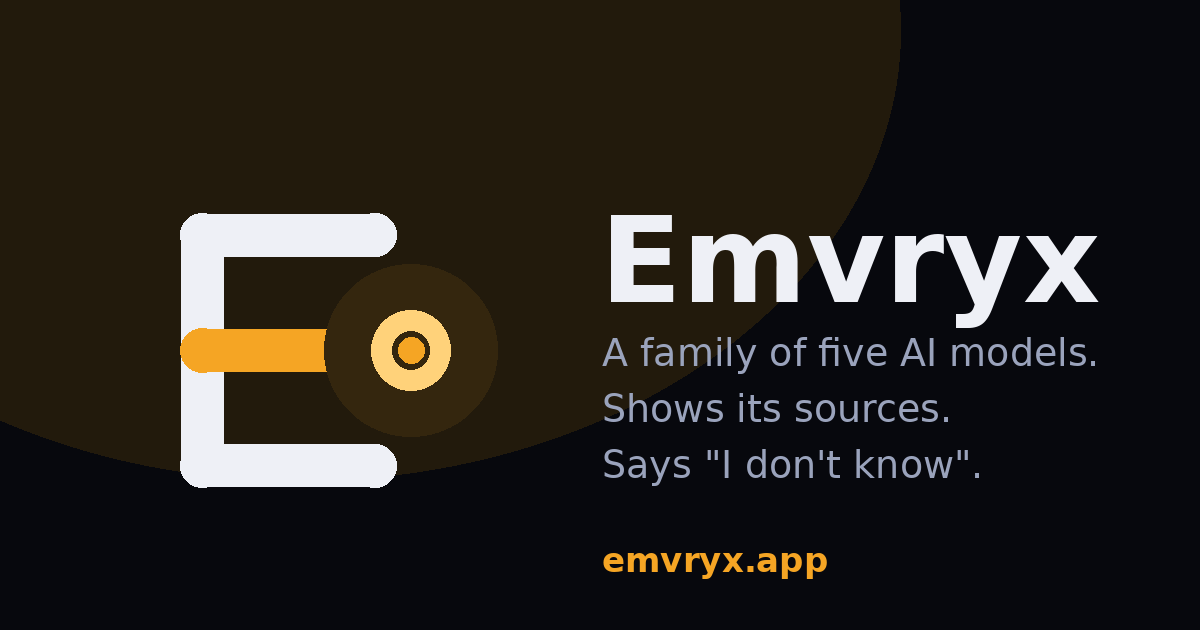
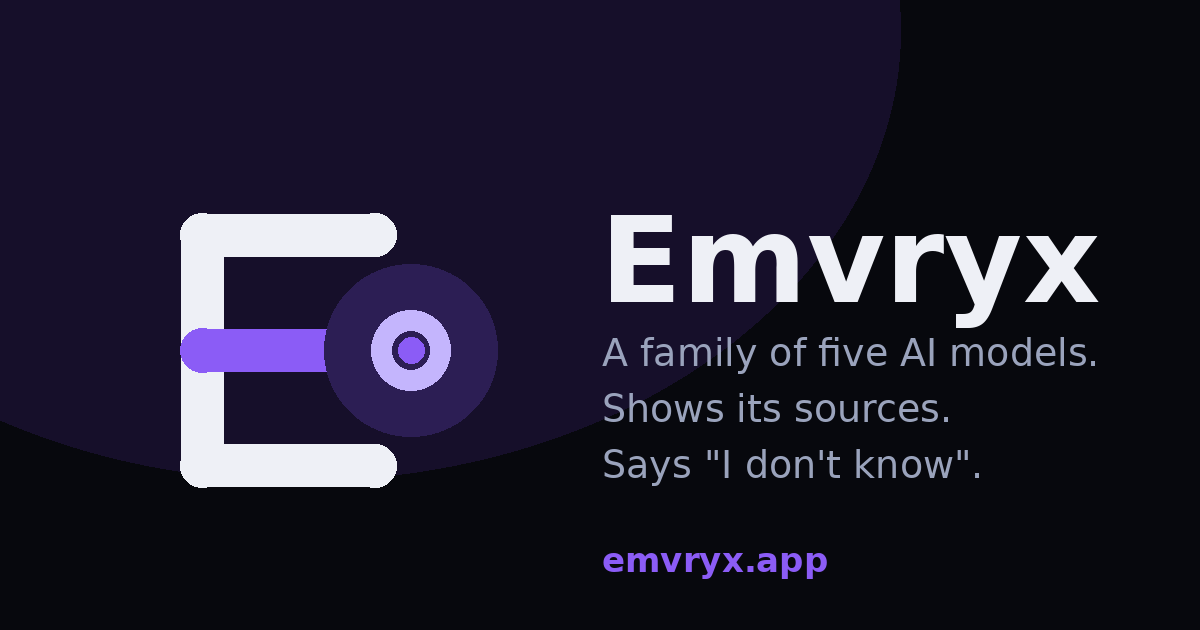
Violet brand look: website in violet; chat behind the owner-only violet_theme flag
Claude-Session: https://claude.ai/code/session_014Lsskx6FbwwWugkTb9ic38

diff --git a/design/canvas/Logo.dc.html b/design/canvas/Logo.dc.html
@@ -14,7 +14,7 @@
 body{margin:0}
 </style>
 </helmet>
-<div style="--bg:#07080D;--surface:#0F1119;--surface2:#161926;--line:#232739;--text:#EEF0F6;--muted:#9AA3BC;--accenttext:#F5A524;--sun:#F5A524; width: 1360px; height: 1160px; box-sizing: border-box; padding: 64px; background: var(--bg); color: var(--text); font-family: 'DM Sans', sans-serif; display: flex; flex-direction: column; gap: 40px">
+<div style="--bg:#07080D;--surface:#0F1119;--surface2:#161926;--line:#232739;--text:#EEF0F6;--muted:#9AA3BC;--accenttext:#A78BFA;--sun:#8B5CF6; width: 1360px; height: 1160px; box-sizing: border-box; padding: 64px; background: var(--bg); color: var(--text); font-family: 'DM Sans', sans-serif; display: flex; flex-direction: column; gap: 40px">
 
 <div style="display: flex; justify-content: space-between; align-items: flex-end; gap: 40px">
 <div style="display: flex; flex-direction: column; gap: 12px">
@@ -27,7 +27,7 @@ body{margin:0}
 <div style="display: grid; grid-template-columns: minmax(0, 5fr) minmax(0, 7fr); gap: 24px">
 
 <div style="background: var(--surface); border: 1px solid var(--accenttext); border-radius: 20px; padding: 28px; display: flex; flex-direction: column; align-items: center; gap: 20px">
-<div style="align-self: flex-start; font-size: 13px; font-weight: 600; letter-spacing: 0.1em; color: #1A1204; background: #F5A524; border-radius: 999px; padding: 4px 12px">PRIMARY MARK &middot; E + RING</div>
+<div style="align-self: flex-start; font-size: 13px; font-weight: 600; letter-spacing: 0.1em; color: #FFFFFF; background: #8B5CF6; border-radius: 999px; padding: 4px 12px">PRIMARY MARK &middot; E + RING</div>
 <svg width="250" height="250" viewBox="0 0 64 64" fill="none" role="img" aria-label="Emvryx E and ring mark">
 <circle cx="46" cy="32" r="12" style="fill: var(--sun)" fill-opacity="0.16"/><path d="M17 16 H41 M17 48 H41 M17 16 V48" style="stroke: var(--text)" stroke-width="6" stroke-linecap="round" stroke-linejoin="round"/><path d="M17 32 H37" style="stroke: var(--sun)" stroke-width="6" stroke-linecap="round"/><circle cx="46" cy="32" r="5.5" style="stroke: var(--sun)" stroke-width="3"></circle><circle cx="46" cy="32" r="1.8" style="fill: var(--sun)"/>
 </svg>
@@ -90,7 +90,7 @@ body{margin:0}
 <div style="font-size: 15px; line-height: 1.5; color: var(--muted)">Near-black ground (#07080D), amber spark.</div>
 </div>
 
-<div style="--bg:#F7F8FC;--surface:#FFFFFF;--line:#D8DCEA;--text:#0D0F1A;--muted:#4A526B;--sun:#E08A00; background: #F7F8FC; color: #0D0F1A; border-radius: 20px; padding: 28px; display: flex; flex-direction: column; gap: 20px">
+<div style="--bg:#F7F8FC;--surface:#FFFFFF;--line:#D8DCEA;--text:#0D0F1A;--muted:#4A526B;--sun:#7C3AED; background: #F7F8FC; color: #0D0F1A; border-radius: 20px; padding: 28px; display: flex; flex-direction: column; gap: 20px">
 <div style="font-size: 13px; font-weight: 600; letter-spacing: 0.1em; color: #4A526B">LIGHT MODE</div>
 <div style="display: flex; align-items: center; gap: 14px">
 <svg width="60" height="60" viewBox="0 0 64 64" fill="none" aria-label="Emvryx mark">
@@ -98,7 +98,7 @@ body{margin:0}
 </svg>
 <div style="font-family: 'Sora', sans-serif; font-weight: 600; font-size: 42px; letter-spacing: -0.02em">Emvryx<span style="font-weight: 500; color: #4A526B; font-size: 24px; margin-left: 2px">.AI</span></div>
 </div>
-<div style="font-size: 15px; line-height: 1.5; color: #4A526B">Light ground (#F7F8FC). The spark deepens to #E08A00 and amber text to #8F5600 to keep their contrast.</div>
+<div style="font-size: 15px; line-height: 1.5; color: #4A526B">Light ground (#F7F8FC). The spark deepens to #7C3AED and amber text to #6D28D9 to keep their contrast.</div>
 </div>
 
 <div style="background: var(--surface); border-radius: 20px; padding: 28px; display: flex; flex-direction: column; gap: 20px">
@@ -106,10 +106,10 @@ body{margin:0}
 <div style="display: flex; align-items: flex-end; gap: 20px">
 <div style="width: 112px; height: 112px; border-radius: 26px; background: #07080D; border: 1px solid var(--line); display: flex; align-items: center; justify-content: center">
 <svg width="76" height="76" viewBox="0 0 64 64" fill="none" aria-label="Emvryx app icon">
-<path d="M15 15 H42 M15 49 H42 M15 15 V49" stroke="#EEF0F6" stroke-width="8" stroke-linecap="round" stroke-linejoin="round"/><path d="M15 32 H34" stroke="#F5A524" stroke-width="8" stroke-linecap="round"/><circle cx="49" cy="32" r="6.5" fill="#F5A524"/>
+<path d="M15 15 H42 M15 49 H42 M15 15 V49" stroke="#EEF0F6" stroke-width="8" stroke-linecap="round" stroke-linejoin="round"/><path d="M15 32 H34" stroke="#8B5CF6" stroke-width="8" stroke-linecap="round"/><circle cx="49" cy="32" r="6.5" fill="#8B5CF6"/>
 </svg>
 </div>
-<div style="width: 112px; height: 112px; border-radius: 26px; background: #F5A524; display: flex; align-items: center; justify-content: center">
+<div style="width: 112px; height: 112px; border-radius: 26px; background: #8B5CF6; display: flex; align-items: center; justify-content: center">
 <svg width="76" height="76" viewBox="0 0 64 64" fill="none" aria-label="Emvryx app icon, amber">
 <path d="M15 15 H42 M15 49 H42 M15 15 V49" stroke="#07080D" stroke-width="8" stroke-linecap="round" stroke-linejoin="round"/><path d="M15 32 H34" stroke="#FFF8E7" stroke-width="8" stroke-linecap="round"/><circle cx="49" cy="32" r="6.5" fill="#FFF8E7"/>
 </svg>
@@ -117,12 +117,12 @@ body{margin:0}
 <div style="display: flex; flex-direction: column; gap: 12px; align-items: center">
 <div style="width: 44px; height: 44px; border-radius: 10px; background: #07080D; border: 1px solid var(--line); display: flex; align-items: center; justify-content: center">
 <svg width="32" height="32" viewBox="0 0 64 64" fill="none" aria-label="32 px favicon">
-<path d="M15 15 H42 M15 49 H42 M15 15 V49" stroke="#EEF0F6" stroke-width="8" stroke-linecap="round" stroke-linejoin="round"/><path d="M15 32 H34" stroke="#F5A524" stroke-width="8" stroke-linecap="round"/><circle cx="49" cy="32" r="6.5" fill="#F5A524"/>
+<path d="M15 15 H42 M15 49 H42 M15 15 V49" stroke="#EEF0F6" stroke-width="8" stroke-linecap="round" stroke-linejoin="round"/><path d="M15 32 H34" stroke="#8B5CF6" stroke-width="8" stroke-linecap="round"/><circle cx="49" cy="32" r="6.5" fill="#8B5CF6"/>
 </svg>
 </div>
 <div style="width: 24px; height: 24px; border-radius: 6px; background: #07080D; border: 1px solid var(--line); display: flex; align-items: center; justify-content: center">
 <svg width="18" height="18" viewBox="0 0 64 64" fill="none" aria-label="16 px favicon">
-<path d="M15 15 H42 M15 49 H42 M15 15 V49" stroke="#EEF0F6" stroke-width="8" stroke-linecap="round" stroke-linejoin="round"/><path d="M15 32 H34" stroke="#F5A524" stroke-width="8" stroke-linecap="round"/><circle cx="49" cy="32" r="6.5" fill="#F5A524"/>
+<path d="M15 15 H42 M15 49 H42 M15 15 V49" stroke="#EEF0F6" stroke-width="8" stroke-linecap="round" stroke-linejoin="round"/><path d="M15 32 H34" stroke="#8B5CF6" stroke-width="8" stroke-linecap="round"/><circle cx="49" cy="32" r="6.5" fill="#8B5CF6"/>
 </svg>
 </div>
 </div>
@@ -137,7 +137,7 @@ body{margin:0}
 <div style="flex: 1; display: flex; flex-direction: column; gap: 8px"><div style="height: 56px; border-radius: 12px; background: #232739"></div><div style="font-size: 14px; color: var(--muted)">Line #232739</div></div>
 <div style="flex: 1; display: flex; flex-direction: column; gap: 8px"><div style="height: 56px; border-radius: 12px; background: #9AA3BC"></div><div style="font-size: 14px; color: var(--muted)">Muted #9AA3BC</div></div>
 <div style="flex: 1; display: flex; flex-direction: column; gap: 8px"><div style="height: 56px; border-radius: 12px; background: #EEF0F6"></div><div style="font-size: 14px; color: var(--muted)">Text #EEF0F6</div></div>
-<div style="flex: 1; display: flex; flex-direction: column; gap: 8px"><div style="height: 56px; border-radius: 12px; background: #F5A524"></div><div style="font-size: 14px; color: var(--muted)">Spark #F5A524</div></div>
+<div style="flex: 1; display: flex; flex-direction: column; gap: 8px"><div style="height: 56px; border-radius: 12px; background: #8B5CF6"></div><div style="font-size: 14px; color: var(--muted)">Spark #8B5CF6</div></div>
 </div>
 
 </div>

diff --git a/web/index.html b/web/index.html
@@ -721,6 +721,9 @@ const MODEL = {
   Solstice: {dark: {accent:'#F2A60C', onaccent:'#1F1400', accenttext:'#FFBE3B', sun:'#F2A60C', core:'#FFE7A0', glow:'rgba(242,166,12,.18)'}, light: {accent:'#F2A60C', onaccent:'#1F1400', accenttext:'#8A5A00', sun:'#D18A00', core:'#FFE7A0', glow:'rgba(242,166,12,.13)'}},
   Apogee:   {dark: {accent:'#A8D1F5', onaccent:'#06121F', accenttext:'#B5D8F8', sun:'#A8D1F5', core:'#F4F9FF', glow:'rgba(168,209,245,.15)'}, light: {accent:'#A8D1F5', onaccent:'#06121F', accenttext:'#2A5F96', sun:'#4F8FC9', core:'#F4F9FF', glow:'rgba(120,170,220,.15)'}}
 };
+// The violet look (a feature flag, "violet_theme": Admin > Previews). Only Emvryx's own colour changes; each model keeps its own.
+const VIOLET = {dark: {accent:'#8B5CF6', onaccent:'#FFFFFF', accenttext:'#A78BFA', sun:'#8B5CF6', core:'#C4B5FD', glow:'rgba(139,92,246,.14)'}, light: {accent:'#7C3AED', onaccent:'#FFFFFF', accenttext:'#6D28D9', sun:'#7C3AED', core:'#8B5CF6', glow:'rgba(124,58,237,.12)'}};
+const violetOn = () => !!(S.state && S.state.features && S.state.features.violet_theme);
 const BASE = {
   dark:  {bg:'#07080D', side:'#0A0B11', surface:'#0F1119', surface2:'#161926', line:'#232739', text:'#EEF0F6', muted:'#9AA3BC'},
   light: {bg:'#F7F8FC', side:'#EEF0F7', surface:'#FFFFFF', surface2:'#EEF0F7', line:'#D8DCEA', text:'#0D0F1A', muted:'#4A526B'}
@@ -747,9 +750,9 @@ const logo = (size, animate, kind) => {
   const s = document.createElementNS('http://www.w3.org/2000/svg', 'svg');
   s.setAttribute('width', size); s.setAttribute('height', size); s.setAttribute('viewBox', '0 0 64 64'); s.setAttribute('fill', 'none'); s.setAttribute('aria-hidden', 'true');
   const pulse = (v) => animate ? `<animate attributeName="r" values="${v}" dur="1.6s" repeatCount="indefinite"/>` : '';
-  const sun = k === 'brand' ? '#F5A524' : 'var(--sun)', main = k === 'apogee' ? 'var(--sun)' : 'var(--text)';
+  const sun = k === 'brand' ? (violetOn() ? '#8B5CF6' : '#F5A524') : 'var(--sun)', main = k === 'apogee' ? 'var(--sun)' : 'var(--text)';
   let ring;
-  if (k === 'brand') ring = `<circle cx="46" cy="32" r="5.5" stroke="#FFD27A" stroke-width="3">${pulse('4.5;7;4.5')}</circle><circle cx="46" cy="32" r="1.8" fill="#F5A524"/>`;
+  if (k === 'brand') ring = `<circle cx="46" cy="32" r="5.5" stroke="${violetOn() ? '#C4B5FD' : '#FFD27A'}" stroke-width="3">${pulse('4.5;7;4.5')}</circle><circle cx="46" cy="32" r="1.8" fill="${sun}"/>`;
   else if (k === 'ember') ring = `<circle cx="45" cy="32" r="3.4" fill="${sun}">${pulse('2.6;4.4;2.6')}</circle>`;
   else if (k === 'apogee') ring = `<circle class="core" cx="46" cy="32" r="4.5" style="stroke-width:2.5">${pulse('4;6;4')}</circle><circle cx="46" cy="32" r="8.5" stroke="${sun}" stroke-width="1.6" stroke-opacity="0.7"/><circle cx="46" cy="32" r="12" stroke="${sun}" stroke-width="1.2" stroke-opacity="0.4"/>`;
   else ring = `<circle class="core" cx="46" cy="32" r="5.5">${pulse('4.5;7;4.5')}</circle>` + (k === 'equinox' ? logoRays(8.5, 11, 4, 'var(--text)') : k === 'solstice' ? logoRays(8.5, 11.5, 8, sun) : '');
@@ -795,7 +798,7 @@ function applyTheme() {
   applySize();
   const mode = S.theme === 'auto' ? (matchMedia('(prefers-color-scheme: light)').matches ? 'light' : 'dark') : S.theme;
   document.documentElement.dataset.mode = mode;
-  const m = curModel(), p = Object.assign({}, BASE[mode], (MODEL[m ? m.name : 'Emvryx'] || MODEL.Flare)[mode]);
+  const m = curModel(), p = Object.assign({}, BASE[mode], (!m && violetOn() ? VIOLET : (MODEL[m ? m.name : 'Emvryx'] || MODEL.Flare))[mode]);
   for (const k in p) document.documentElement.style.setProperty('--' + k, p[k]);
   document.querySelector('meta[name=theme-color]').content = p.bg;
 }

diff --git a/site/next.html b/site/next.html
@@ -17,8 +17,8 @@
 <meta name="twitter:card" content="summary_large_image">
 <meta name="twitter:image" content="https://emvryx.app/og.png">
 <style>
-:root{--bg:#07080D;--side:#0A0B11;--surface:#0F1119;--surface2:#161926;--line:#232739;--text:#EEF0F6;--muted:#9AA3BC;--accent:#F5A524;--onaccent:#1A1204;--accenttext:#F5A524;--sun:#F5A524;--core:#F5A524;--glow:rgba(245,165,36,.14)}
-:root[data-theme=light]{--bg:#F7F8FC;--side:#EEF0F7;--surface:#FFFFFF;--surface2:#EEF0F7;--line:#D8DCEA;--text:#0D0F1A;--muted:#4A526B;--accent:#F5A524;--onaccent:#1A1204;--accenttext:#8F5600;--sun:#E08A00;--core:#E08A00;--glow:rgba(245,165,36,.12)}
+:root{--bg:#07080D;--side:#0A0B11;--surface:#0F1119;--surface2:#161926;--line:#232739;--text:#EEF0F6;--muted:#9AA3BC;--accent:#8B5CF6;--onaccent:#FFFFFF;--accenttext:#A78BFA;--sun:#8B5CF6;--core:#C4B5FD;--glow:rgba(139,92,246,.14)}
+:root[data-theme=light]{--bg:#F7F8FC;--side:#EEF0F7;--surface:#FFFFFF;--surface2:#EEF0F7;--line:#D8DCEA;--text:#0D0F1A;--muted:#4A526B;--accent:#7C3AED;--onaccent:#FFFFFF;--accenttext:#6D28D9;--sun:#7C3AED;--core:#8B5CF6;--glow:rgba(139,92,246,.12)}
 html,body{margin:0;background:var(--bg)}
 .theme-toggle{position:fixed;right:16px;bottom:16px;z-index:50;width:44px;height:44px;border-radius:999px;border:1px solid var(--line);background:var(--surface);color:var(--text);cursor:pointer;font-size:18px}
 .theme-toggle:focus-visible{outline:2px solid var(--accent);outline-offset:2px}
@@ -128,11 +128,11 @@ body{font-family:'DM Sans',sans-serif;color:var(--text);line-height:1.55;font-si
   /* ---- the dashes that turn to face the pointer */
   var canvas = document.createElement('canvas'); canvas.className = 'fx-dots'; canvas.setAttribute('aria-hidden', 'true'); document.body.prepend(canvas); doc.classList.add('fx-has');
   var ctx = canvas.getContext && canvas.getContext('2d');
-  var w = 0, h = 0, mx = null, my = null, cx = 0, cy = 0, rgb = '245,165,36', GAP = 34, last = 0, fade = 1;
+  var w = 0, h = 0, mx = null, my = null, cx = 0, cy = 0, rgb = '139,92,246', GAP = 34, last = 0, fade = 1;
   function size() { var d = Math.min(window.devicePixelRatio || 1, 2); w = innerWidth; h = innerHeight; canvas.width = w * d; canvas.height = h * d; if (ctx) ctx.setTransform(d, 0, 0, d, 0, 0); }
   function colour() {
     var c = cs(doc).getPropertyValue('--accent').trim(), m = /^#([0-9a-f]{6})$/i.exec(c);
-    rgb = m ? [1, 3, 5].map(function (i) { return parseInt(m[1].slice(i - 1, i + 1), 16); }).join(',') : '245,165,36';
+    rgb = m ? [1, 3, 5].map(function (i) { return parseInt(m[1].slice(i - 1, i + 1), 16); }).join(',') : '139,92,246';
   }
   function draw() {
     ctx.clearRect(0, 0, w, h);

diff --git a/site/scorecard.html b/site/scorecard.html
@@ -17,8 +17,8 @@
 <meta name="twitter:card" content="summary_large_image">
 <meta name="twitter:image" content="https://emvryx.app/og.png">
 <style>
-:root{--bg:#07080D;--side:#0A0B11;--surface:#0F1119;--surface2:#161926;--line:#232739;--text:#EEF0F6;--muted:#9AA3BC;--accent:#F5A524;--onaccent:#1A1204;--accenttext:#F5A524;--sun:#F5A524;--core:#F5A524;--glow:rgba(245,165,36,.14)}
-:root[data-theme=light]{--bg:#F7F8FC;--side:#EEF0F7;--surface:#FFFFFF;--surface2:#EEF0F7;--line:#D8DCEA;--text:#0D0F1A;--muted:#4A526B;--accent:#F5A524;--onaccent:#1A1204;--accenttext:#8F5600;--sun:#E08A00;--core:#E08A00;--glow:rgba(245,165,36,.12)}
+:root{--bg:#07080D;--side:#0A0B11;--surface:#0F1119;--surface2:#161926;--line:#232739;--text:#EEF0F6;--muted:#9AA3BC;--accent:#8B5CF6;--onaccent:#FFFFFF;--accenttext:#A78BFA;--sun:#8B5CF6;--core:#C4B5FD;--glow:rgba(139,92,246,.14)}
+:root[data-theme=light]{--bg:#F7F8FC;--side:#EEF0F7;--surface:#FFFFFF;--surface2:#EEF0F7;--line:#D8DCEA;--text:#0D0F1A;--muted:#4A526B;--accent:#7C3AED;--onaccent:#FFFFFF;--accenttext:#6D28D9;--sun:#7C3AED;--core:#8B5CF6;--glow:rgba(139,92,246,.12)}
 html,body{margin:0;background:var(--bg)}
 .theme-toggle{position:fixed;right:16px;bottom:16px;z-index:50;width:44px;height:44px;border-radius:999px;border:1px solid var(--line);background:var(--surface);color:var(--text);cursor:pointer;font-size:18px}
 .theme-toggle:focus-visible{outline:2px solid var(--accent);outline-offset:2px}
@@ -102,11 +102,11 @@ body{font-family:'DM Sans',sans-serif;color:var(--text);line-height:1.55;font-si
   /* ---- the dashes that turn to face the pointer */
   var canvas = document.createElement('canvas'); canvas.className = 'fx-dots'; canvas.setAttribute('aria-hidden', 'true'); document.body.prepend(canvas); doc.classList.add('fx-has');
   var ctx = canvas.getContext && canvas.getContext('2d');
-  var w = 0, h = 0, mx = null, my = null, cx = 0, cy = 0, rgb = '245,165,36', GAP = 34, last = 0, fade = 1;
+  var w = 0, h = 0, mx = null, my = null, cx = 0, cy = 0, rgb = '139,92,246', GAP = 34, last = 0, fade = 1;
   function size() { var d = Math.min(window.devicePixelRatio || 1, 2); w = innerWidth; h = innerHeight; canvas.width = w * d; canvas.height = h * d; if (ctx) ctx.setTransform(d, 0, 0, d, 0, 0); }
   function colour() {
     var c = cs(doc).getPropertyValue('--accent').trim(), m = /^#([0-9a-f]{6})$/i.exec(c);
-    rgb = m ? [1, 3, 5].map(function (i) { return parseInt(m[1].slice(i - 1, i + 1), 16); }).join(',') : '245,165,36';
+    rgb = m ? [1, 3, 5].map(function (i) { return parseInt(m[1].slice(i - 1, i + 1), 16); }).join(',') : '139,92,246';
   }
   function draw() {
     ctx.clearRect(0, 0, w, h);

diff --git a/site/whatsnew.html b/site/whatsnew.html
@@ -17,8 +17,8 @@
 <meta name="twitter:card" content="summary_large_image">
 <meta name="twitter:image" content="https://emvryx.app/og.png">
 <style>
-:root{--bg:#07080D;--side:#0A0B11;--surface:#0F1119;--surface2:#161926;--line:#232739;--text:#EEF0F6;--muted:#9AA3BC;--accent:#F5A524;--onaccent:#1A1204;--accenttext:#F5A524;--sun:#F5A524;--core:#F5A524;--glow:rgba(245,165,36,.14)}
-:root[data-theme=light]{--bg:#F7F8FC;--side:#EEF0F7;--surface:#FFFFFF;--surface2:#EEF0F7;--line:#D8DCEA;--text:#0D0F1A;--muted:#4A526B;--accent:#F5A524;--onaccent:#1A1204;--accenttext:#8F5600;--sun:#E08A00;--core:#E08A00;--glow:rgba(245,165,36,.12)}
+:root{--bg:#07080D;--side:#0A0B11;--surface:#0F1119;--surface2:#161926;--line:#232739;--text:#EEF0F6;--muted:#9AA3BC;--accent:#8B5CF6;--onaccent:#FFFFFF;--accenttext:#A78BFA;--sun:#8B5CF6;--core:#C4B5FD;--glow:rgba(139,92,246,.14)}
+:root[data-theme=light]{--bg:#F7F8FC;--side:#EEF0F7;--surface:#FFFFFF;--surface2:#EEF0F7;--line:#D8DCEA;--text:#0D0F1A;--muted:#4A526B;--accent:#7C3AED;--onaccent:#FFFFFF;--accenttext:#6D28D9;--sun:#7C3AED;--core:#8B5CF6;--glow:rgba(139,92,246,.12)}
 html,body{margin:0;background:var(--bg)}
 .theme-toggle{position:fixed;right:16px;bottom:16px;z-index:50;width:44px;height:44px;border-radius:999px;border:1px solid var(--line);background:var(--surface);color:var(--text);cursor:pointer;font-size:18px}
 .theme-toggle:focus-visible{outline:2px solid var(--accent);outline-offset:2px}
@@ -106,11 +106,11 @@ body{font-family:'DM Sans',sans-serif;color:var(--text);line-height:1.55;font-si
   /* ---- the dashes that turn to face the pointer */
   var canvas = document.createElement('canvas'); canvas.className = 'fx-dots'; canvas.setAttribute('aria-hidden', 'true'); document.body.prepend(canvas); doc.classList.add('fx-has');
   var ctx = canvas.getContext && canvas.getContext('2d');
-  var w = 0, h = 0, mx = null, my = null, cx = 0, cy = 0, rgb = '245,165,36', GAP = 34, last = 0, fade = 1;
+  var w = 0, h = 0, mx = null, my = null, cx = 0, cy = 0, rgb = '139,92,246', GAP = 34, last = 0, fade = 1;
   function size() { var d = Math.min(window.devicePixelRatio || 1, 2); w = innerWidth; h = innerHeight; canvas.width = w * d; canvas.height = h * d; if (ctx) ctx.setTransform(d, 0, 0, d, 0, 0); }
   function colour() {
     var c = cs(doc).getPropertyValue('--accent').trim(), m = /^#([0-9a-f]{6})$/i.exec(c);
-    rgb = m ? [1, 3, 5].map(function (i) { return parseInt(m[1].slice(i - 1, i + 1), 16); }).join(',') : '245,165,36';
+    rgb = m ? [1, 3, 5].map(function (i) { return parseInt(m[1].slice(i - 1, i + 1), 16); }).join(',') : '139,92,246';
   }
   function draw() {
     ctx.clearRect(0, 0, w, h);

diff --git a/site/open.html b/site/open.html
@@ -18,8 +18,8 @@
 <meta name="twitter:image" content="https://emvryx.app/og.png">
 <meta name="robots" content="noindex">
 <style>
-:root{--bg:#07080D;--side:#0A0B11;--surface:#0F1119;--surface2:#161926;--line:#232739;--text:#EEF0F6;--muted:#9AA3BC;--accent:#F5A524;--onaccent:#1A1204;--accenttext:#F5A524;--sun:#F5A524;--core:#F5A524;--glow:rgba(245,165,36,.14)}
-:root[data-theme=light]{--bg:#F7F8FC;--side:#EEF0F7;--surface:#FFFFFF;--surface2:#EEF0F7;--line:#D8DCEA;--text:#0D0F1A;--muted:#4A526B;--accent:#F5A524;--onaccent:#1A1204;--accenttext:#8F5600;--sun:#E08A00;--core:#E08A00;--glow:rgba(245,165,36,.12)}
+:root{--bg:#07080D;--side:#0A0B11;--surface:#0F1119;--surface2:#161926;--line:#232739;--text:#EEF0F6;--muted:#9AA3BC;--accent:#8B5CF6;--onaccent:#FFFFFF;--accenttext:#A78BFA;--sun:#8B5CF6;--core:#C4B5FD;--glow:rgba(139,92,246,.14)}
+:root[data-theme=light]{--bg:#F7F8FC;--side:#EEF0F7;--surface:#FFFFFF;--surface2:#EEF0F7;--line:#D8DCEA;--text:#0D0F1A;--muted:#4A526B;--accent:#7C3AED;--onaccent:#FFFFFF;--accenttext:#6D28D9;--sun:#7C3AED;--core:#8B5CF6;--glow:rgba(139,92,246,.12)}
 html,body{margin:0;background:var(--bg)}
 .theme-toggle{position:fixed;right:16px;bottom:16px;z-index:50;width:44px;height:44px;border-radius:999px;border:1px solid var(--line);background:var(--surface);color:var(--text);cursor:pointer;font-size:18px}
 .theme-toggle:focus-visible{outline:2px solid var(--accent);outline-offset:2px}
@@ -100,11 +100,11 @@ body{font-family:'DM Sans',sans-serif;color:var(--text);line-height:1.55;font-si
   /* ---- the dashes that turn to face the pointer */
   var canvas = document.createElement('canvas'); canvas.className = 'fx-dots'; canvas.setAttribute('aria-hidden', 'true'); document.body.prepend(canvas); doc.classList.add('fx-has');
   var ctx = canvas.getContext && canvas.getContext('2d');
-  var w = 0, h = 0, mx = null, my = null, cx = 0, cy = 0, rgb = '245,165,36', GAP = 34, last = 0, fade = 1;
+  var w = 0, h = 0, mx = null, my = null, cx = 0, cy = 0, rgb = '139,92,246', GAP = 34, last = 0, fade = 1;
   function size() { var d = Math.min(window.devicePixelRatio || 1, 2); w = innerWidth; h = innerHeight; canvas.width = w * d; canvas.height = h * d; if (ctx) ctx.setTransform(d, 0, 0, d, 0, 0); }
   function colour() {
     var c = cs(doc).getPropertyValue('--accent').trim(), m = /^#([0-9a-f]{6})$/i.exec(c);
-    rgb = m ? [1, 3, 5].map(function (i) { return parseInt(m[1].slice(i - 1, i + 1), 16); }).join(',') : '245,165,36';
+    rgb = m ? [1, 3, 5].map(function (i) { return parseInt(m[1].slice(i - 1, i + 1), 16); }).join(',') : '139,92,246';
   }
   function draw() {
     ctx.clearRect(0, 0, w, h);

diff --git a/site/about.html b/site/about.html
@@ -26,8 +26,8 @@ a:hover{color:var(--accenttext)}
 <meta name="twitter:image" content="https://emvryx.app/og.png">
 
 <style>
-:root{--bg:#07080D;--side:#0A0B11;--surface:#0F1119;--surface2:#161926;--line:#232739;--text:#EEF0F6;--muted:#9AA3BC;--accent:#F5A524;--onaccent:#1A1204;--accenttext:#F5A524;--sun:#F5A524;--core:#F5A524;--glow:rgba(245,165,36,.14)}
-:root[data-theme=light]{--bg:#F7F8FC;--side:#EEF0F7;--surface:#FFFFFF;--surface2:#EEF0F7;--line:#D8DCEA;--text:#0D0F1A;--muted:#4A526B;--accent:#F5A524;--onaccent:#1A1204;--accenttext:#8F5600;--sun:#E08A00;--core:#E08A00;--glow:rgba(245,165,36,.12)}
+:root{--bg:#07080D;--side:#0A0B11;--surface:#0F1119;--surface2:#161926;--line:#232739;--text:#EEF0F6;--muted:#9AA3BC;--accent:#8B5CF6;--onaccent:#FFFFFF;--accenttext:#A78BFA;--sun:#8B5CF6;--core:#C4B5FD;--glow:rgba(139,92,246,.14)}
+:root[data-theme=light]{--bg:#F7F8FC;--side:#EEF0F7;--surface:#FFFFFF;--surface2:#EEF0F7;--line:#D8DCEA;--text:#0D0F1A;--muted:#4A526B;--accent:#7C3AED;--onaccent:#FFFFFF;--accenttext:#6D28D9;--sun:#7C3AED;--core:#8B5CF6;--glow:rgba(139,92,246,.12)}
 html,body{margin:0;background:var(--bg)}
 .theme-toggle{position:fixed;right:16px;bottom:16px;z-index:50;width:44px;height:44px;border-radius:999px;border:1px solid var(--line);background:var(--surface);color:var(--text);cursor:pointer;font-size:18px}
 .theme-toggle:focus-visible{outline:2px solid var(--accent);outline-offset:2px}
@@ -233,11 +233,11 @@ html,body{margin:0;background:var(--bg)}
   /* ---- the dashes that turn to face the pointer */
   var canvas = document.createElement('canvas'); canvas.className = 'fx-dots'; canvas.setAttribute('aria-hidden', 'true'); document.body.prepend(canvas); doc.classList.add('fx-has');
   var ctx = canvas.getContext && canvas.getContext('2d');
-  var w = 0, h = 0, mx = null, my = null, cx = 0, cy = 0, rgb = '245,165,36', GAP = 34, last = 0, fade = 1;
+  var w = 0, h = 0, mx = null, my = null, cx = 0, cy = 0, rgb = '139,92,246', GAP = 34, last = 0, fade = 1;
   function size() { var d = Math.min(window.devicePixelRatio || 1, 2); w = innerWidth; h = innerHeight; canvas.width = w * d; canvas.height = h * d; if (ctx) ctx.setTransform(d, 0, 0, d, 0, 0); }
   function colour() {
     var c = cs(doc).getPropertyValue('--accent').trim(), m = /^#([0-9a-f]{6})$/i.exec(c);
-    rgb = m ? [1, 3, 5].map(function (i) { return parseInt(m[1].slice(i - 1, i + 1), 16); }).join(',') : '245,165,36';
+    rgb = m ? [1, 3, 5].map(function (i) { return parseInt(m[1].slice(i - 1, i + 1), 16); }).join(',') : '139,92,246';
   }
   function draw() {
     ctx.clearRect(0, 0, w, h);

diff --git a/site/models.html b/site/models.html
@@ -26,8 +26,8 @@ a:hover{color:var(--accenttext)}
 <meta name="twitter:image" content="https://emvryx.app/og.png">
 
 <style>
-:root{--bg:#07080D;--side:#0A0B11;--surface:#0F1119;--surface2:#161926;--line:#232739;--text:#EEF0F6;--muted:#9AA3BC;--accent:#F5A524;--onaccent:#1A1204;--accenttext:#F5A524;--sun:#F5A524;--core:#F5A524;--glow:rgba(245,165,36,.14)}
-:root[data-theme=light]{--bg:#F7F8FC;--side:#EEF0F7;--surface:#FFFFFF;--surface2:#EEF0F7;--line:#D8DCEA;--text:#0D0F1A;--muted:#4A526B;--accent:#F5A524;--onaccent:#1A1204;--accenttext:#8F5600;--sun:#E08A00;--core:#E08A00;--glow:rgba(245,165,36,.12)}
+:root{--bg:#07080D;--side:#0A0B11;--surface:#0F1119;--surface2:#161926;--line:#232739;--text:#EEF0F6;--muted:#9AA3BC;--accent:#8B5CF6;--onaccent:#FFFFFF;--accenttext:#A78BFA;--sun:#8B5CF6;--core:#C4B5FD;--glow:rgba(139,92,246,.14)}
+:root[data-theme=light]{--bg:#F7F8FC;--side:#EEF0F7;--surface:#FFFFFF;--surface2:#EEF0F7;--line:#D8DCEA;--text:#0D0F1A;--muted:#4A526B;--accent:#7C3AED;--onaccent:#FFFFFF;--accenttext:#6D28D9;--sun:#7C3AED;--core:#8B5CF6;--glow:rgba(139,92,246,.12)}
 html,body{margin:0;background:var(--bg)}
 .theme-toggle{position:fixed;right:16px;bottom:16px;z-index:50;width:44px;height:44px;border-radius:999px;border:1px solid var(--line);background:var(--surface);color:var(--text);cursor:pointer;font-size:18px}
 .theme-toggle:focus-visible{outline:2px solid var(--accent);outline-offset:2px}
@@ -197,11 +197,11 @@ html,body{margin:0;background:var(--bg)}
   /* ---- the dashes that turn to face the pointer */
   var canvas = document.createElement('canvas'); canvas.className = 'fx-dots'; canvas.setAttribute('aria-hidden', 'true'); document.body.prepend(canvas); doc.classList.add('fx-has');
   var ctx = canvas.getContext && canvas.getContext('2d');
-  var w = 0, h = 0, mx = null, my = null, cx = 0, cy = 0, rgb = '245,165,36', GAP = 34, last = 0, fade = 1;
+  var w = 0, h = 0, mx = null, my = null, cx = 0, cy = 0, rgb = '139,92,246', GAP = 34, last = 0, fade = 1;
   function size() { var d = Math.min(window.devicePixelRatio || 1, 2); w = innerWidth; h = innerHeight; canvas.width = w * d; canvas.height = h * d; if (ctx) ctx.setTransform(d, 0, 0, d, 0, 0); }
   function colour() {
     var c = cs(doc).getPropertyValue('--accent').trim(), m = /^#([0-9a-f]{6})$/i.exec(c);
-    rgb = m ? [1, 3, 5].map(function (i) { return parseInt(m[1].slice(i - 1, i + 1), 16); }).join(',') : '245,165,36';
+    rgb = m ? [1, 3, 5].map(function (i) { return parseInt(m[1].slice(i - 1, i + 1), 16); }).join(',') : '139,92,246';
   }
   function draw() {
     ctx.clearRect(0, 0, w, h);

diff --git a/site/plans.html b/site/plans.html
@@ -26,8 +26,8 @@ a:hover{color:var(--accenttext)}
 <meta name="twitter:image" content="https://emvryx.app/og.png">
 
 <style>
-:root{--bg:#07080D;--side:#0A0B11;--surface:#0F1119;--surface2:#161926;--line:#232739;--text:#EEF0F6;--muted:#9AA3BC;--accent:#F5A524;--onaccent:#1A1204;--accenttext:#F5A524;--sun:#F5A524;--core:#F5A524;--glow:rgba(245,165,36,.14)}
-:root[data-theme=light]{--bg:#F7F8FC;--side:#EEF0F7;--surface:#FFFFFF;--surface2:#EEF0F7;--line:#D8DCEA;--text:#0D0F1A;--muted:#4A526B;--accent:#F5A524;--onaccent:#1A1204;--accenttext:#8F5600;--sun:#E08A00;--core:#E08A00;--glow:rgba(245,165,36,.12)}
+:root{--bg:#07080D;--side:#0A0B11;--surface:#0F1119;--surface2:#161926;--line:#232739;--text:#EEF0F6;--muted:#9AA3BC;--accent:#8B5CF6;--onaccent:#FFFFFF;--accenttext:#A78BFA;--sun:#8B5CF6;--core:#C4B5FD;--glow:rgba(139,92,246,.14)}
+:root[data-theme=light]{--bg:#F7F8FC;--side:#EEF0F7;--surface:#FFFFFF;--surface2:#EEF0F7;--line:#D8DCEA;--text:#0D0F1A;--muted:#4A526B;--accent:#7C3AED;--onaccent:#FFFFFF;--accenttext:#6D28D9;--sun:#7C3AED;--core:#8B5CF6;--glow:rgba(139,92,246,.12)}
 html,body{margin:0;background:var(--bg)}
 .theme-toggle{position:fixed;right:16px;bottom:16px;z-index:50;width:44px;height:44px;border-radius:999px;border:1px solid var(--line);background:var(--surface);color:var(--text);cursor:pointer;font-size:18px}
 .theme-toggle:focus-visible{outline:2px solid var(--accent);outline-offset:2px}
@@ -176,11 +176,11 @@ html,body{margin:0;background:var(--bg)}
   /* ---- the dashes that turn to face the pointer */
   var canvas = document.createElement('canvas'); canvas.className = 'fx-dots'; canvas.setAttribute('aria-hidden', 'true'); document.body.prepend(canvas); doc.classList.add('fx-has');
   var ctx = canvas.getContext && canvas.getContext('2d');
-  var w = 0, h = 0, mx = null, my = null, cx = 0, cy = 0, rgb = '245,165,36', GAP = 34, last = 0, fade = 1;
+  var w = 0, h = 0, mx = null, my = null, cx = 0, cy = 0, rgb = '139,92,246', GAP = 34, last = 0, fade = 1;
   function size() { var d = Math.min(window.devicePixelRatio || 1, 2); w = innerWidth; h = innerHeight; canvas.width = w * d; canvas.height = h * d; if (ctx) ctx.setTransform(d, 0, 0, d, 0, 0); }
   function colour() {
     var c = cs(doc).getPropertyValue('--accent').trim(), m = /^#([0-9a-f]{6})$/i.exec(c);
-    rgb = m ? [1, 3, 5].map(function (i) { return parseInt(m[1].slice(i - 1, i + 1), 16); }).join(',') : '245,165,36';
+    rgb = m ? [1, 3, 5].map(function (i) { return parseInt(m[1].slice(i - 1, i + 1), 16); }).join(',') : '139,92,246';
   }
   function draw() {
     ctx.clearRect(0, 0, w, h);

diff --git a/site/usage.html b/site/usage.html
@@ -26,8 +26,8 @@ a:hover{color:var(--accenttext)}
 <meta name="twitter:image" content="https://emvryx.app/og.png">
 
 <style>
-:root{--bg:#07080D;--side:#0A0B11;--surface:#0F1119;--surface2:#161926;--line:#232739;--text:#EEF0F6;--muted:#9AA3BC;--accent:#F5A524;--onaccent:#1A1204;--accenttext:#F5A524;--sun:#F5A524;--core:#F5A524;--glow:rgba(245,165,36,.14)}
-:root[data-theme=light]{--bg:#F7F8FC;--side:#EEF0F7;--surface:#FFFFFF;--surface2:#EEF0F7;--line:#D8DCEA;--text:#0D0F1A;--muted:#4A526B;--accent:#F5A524;--onaccent:#1A1204;--accenttext:#8F5600;--sun:#E08A00;--core:#E08A00;--glow:rgba(245,165,36,.12)}
+:root{--bg:#07080D;--side:#0A0B11;--surface:#0F1119;--surface2:#161926;--line:#232739;--text:#EEF0F6;--muted:#9AA3BC;--accent:#8B5CF6;--onaccent:#FFFFFF;--accenttext:#A78BFA;--sun:#8B5CF6;--core:#C4B5FD;--glow:rgba(139,92,246,.14)}
+:root[data-theme=light]{--bg:#F7F8FC;--side:#EEF0F7;--surface:#FFFFFF;--surface2:#EEF0F7;--line:#D8DCEA;--text:#0D0F1A;--muted:#4A526B;--accent:#7C3AED;--onaccent:#FFFFFF;--accenttext:#6D28D9;--sun:#7C3AED;--core:#8B5CF6;--glow:rgba(139,92,246,.12)}
 html,body{margin:0;background:var(--bg)}
 .theme-toggle{position:fixed;right:16px;bottom:16px;z-index:50;width:44px;height:44px;border-radius:999px;border:1px solid var(--line);background:var(--surface);color:var(--text);cursor:pointer;font-size:18px}
 .theme-toggle:focus-visible{outline:2px solid var(--accent);outline-offset:2px}
@@ -178,11 +178,11 @@ html,body{margin:0;background:var(--bg)}
   /* ---- the dashes that turn to face the pointer */
   var canvas = document.createElement('canvas'); canvas.className = 'fx-dots'; canvas.setAttribute('aria-hidden', 'true'); document.body.prepend(canvas); doc.classList.add('fx-has');
   var ctx = canvas.getContext && canvas.getContext('2d');
-  var w = 0, h = 0, mx = null, my = null, cx = 0, cy = 0, rgb = '245,165,36', GAP = 34, last = 0, fade = 1;
+  var w = 0, h = 0, mx = null, my = null, cx = 0, cy = 0, rgb = '139,92,246', GAP = 34, last = 0, fade = 1;
   function size() { var d = Math.min(window.devicePixelRatio || 1, 2); w = innerWidth; h = innerHeight; canvas.width = w * d; canvas.height = h * d; if (ctx) ctx.setTransform(d, 0, 0, d, 0, 0); }
   function colour() {
     var c = cs(doc).getPropertyValue('--accent').trim(), m = /^#([0-9a-f]{6})$/i.exec(c);
-    rgb = m ? [1, 3, 5].map(function (i) { return parseInt(m[1].slice(i - 1, i + 1), 16); }).join(',') : '245,165,36';
+    rgb = m ? [1, 3, 5].map(function (i) { return parseInt(m[1].slice(i - 1, i + 1), 16); }).join(',') : '139,92,246';
   }
   function draw() {
     ctx.clearRect(0, 0, w, h);

diff --git a/site/index.html b/site/index.html
@@ -26,8 +26,8 @@ a:hover{color:var(--accenttext)}
 <meta name="twitter:image" content="https://emvryx.app/og.png">
 
 <style>
-:root{--bg:#07080D;--side:#0A0B11;--surface:#0F1119;--surface2:#161926;--line:#232739;--text:#EEF0F6;--muted:#9AA3BC;--accent:#F5A524;--onaccent:#1A1204;--accenttext:#F5A524;--sun:#F5A524;--core:#F5A524;--glow:rgba(245,165,36,.14)}
-:root[data-theme=light]{--bg:#F7F8FC;--side:#EEF0F7;--surface:#FFFFFF;--surface2:#EEF0F7;--line:#D8DCEA;--text:#0D0F1A;--muted:#4A526B;--accent:#F5A524;--onaccent:#1A1204;--accenttext:#8F5600;--sun:#E08A00;--core:#E08A00;--glow:rgba(245,165,36,.12)}
+:root{--bg:#07080D;--side:#0A0B11;--surface:#0F1119;--surface2:#161926;--line:#232739;--text:#EEF0F6;--muted:#9AA3BC;--accent:#8B5CF6;--onaccent:#FFFFFF;--accenttext:#A78BFA;--sun:#8B5CF6;--core:#C4B5FD;--glow:rgba(139,92,246,.14)}
+:root[data-theme=light]{--bg:#F7F8FC;--side:#EEF0F7;--surface:#FFFFFF;--surface2:#EEF0F7;--line:#D8DCEA;--text:#0D0F1A;--muted:#4A526B;--accent:#7C3AED;--onaccent:#FFFFFF;--accenttext:#6D28D9;--sun:#7C3AED;--core:#8B5CF6;--glow:rgba(139,92,246,.12)}
 html,body{margin:0;background:var(--bg)}
 .theme-toggle{position:fixed;right:16px;bottom:16px;z-index:50;width:44px;height:44px;border-radius:999px;border:1px solid var(--line);background:var(--surface);color:var(--text);cursor:pointer;font-size:18px}
 .theme-toggle:focus-visible{outline:2px solid var(--accent);outline-offset:2px}
@@ -278,11 +278,11 @@ Read 2 notes from Wikipedia
   /* ---- the dashes that turn to face the pointer */
   var canvas = document.createElement('canvas'); canvas.className = 'fx-dots'; canvas.setAttribute('aria-hidden', 'true'); document.body.prepend(canvas); doc.classList.add('fx-has');
   var ctx = canvas.getContext && canvas.getContext('2d');
-  var w = 0, h = 0, mx = null, my = null, cx = 0, cy = 0, rgb = '245,165,36', GAP = 34, last = 0, fade = 1;
+  var w = 0, h = 0, mx = null, my = null, cx = 0, cy = 0, rgb = '139,92,246', GAP = 34, last = 0, fade = 1;
   function size() { var d = Math.min(window.devicePixelRatio || 1, 2); w = innerWidth; h = innerHeight; canvas.width = w * d; canvas.height = h * d; if (ctx) ctx.setTransform(d, 0, 0, d, 0, 0); }
   function colour() {
     var c = cs(doc).getPropertyValue('--accent').trim(), m = /^#([0-9a-f]{6})$/i.exec(c);
-    rgb = m ? [1, 3, 5].map(function (i) { return parseInt(m[1].slice(i - 1, i + 1), 16); }).join(',') : '245,165,36';
+    rgb = m ? [1, 3, 5].map(function (i) { return parseInt(m[1].slice(i - 1, i + 1), 16); }).join(',') : '139,92,246';
   }
   function draw() {
     ctx.clearRect(0, 0, w, h);

diff --git a/design/canvas/Chat.dc.html b/design/canvas/Chat.dc.html
@@ -185,7 +185,7 @@ const BASE = {
   light: {bg: '#F7F8FC', side: '#EEF0F7', surface: '#FFFFFF', surface2: '#EEF0F7', line: '#D8DCEA', text: '#0D0F1A', muted: '#4A526B'}
 };
 const MODEL = {
-  brand: {dark: {accent: '#F5A524', onaccent: '#1A1204', accenttext: '#F5A524', sun: '#F5A524', core: '#F5A524', glow: 'rgba(245,165,36,.14)'}, light: {accent: '#F5A524', onaccent: '#1A1204', accenttext: '#8F5600', sun: '#E08A00', core: '#E08A00', glow: 'rgba(245,165,36,.12)'}},
+  brand: {dark: {accent: '#8B5CF6', onaccent: '#FFFFFF', accenttext: '#8B5CF6', sun: '#8B5CF6', core: '#8B5CF6', glow: 'rgba(139,92,246,.14)'}, light: {accent: '#8B5CF6', onaccent: '#FFFFFF', accenttext: '#6D28D9', sun: '#7C3AED', core: '#7C3AED', glow: 'rgba(139,92,246,.12)'}},
   ember: {dark: {accent: '#C8431F', onaccent: '#FFFFFF', accenttext: '#F0734F', sun: '#C8431F', core: '#FFB05A', glow: 'rgba(200,67,31,.20)'}, light: {accent: '#B7391E', onaccent: '#FFFFFF', accenttext: '#8F2A14', sun: '#A8321A', core: '#FF9A3C', glow: 'rgba(183,57,30,.14)'}},
   flare: {dark: {accent: '#FF4B1F', onaccent: '#1A0500', accenttext: '#FF6B3D', sun: '#FF4B1F', core: '#FFF3E6', glow: 'rgba(255,75,31,.20)'}, light: {accent: '#FF4B1F', onaccent: '#1A0500', accenttext: '#B83208', sun: '#E5340A', core: '#FFF3E6', glow: 'rgba(255,75,31,.12)'}},
   equinox: {dark: {accent: '#EEF0F6', onaccent: '#07080D', accenttext: '#EEF0F6', sun: '#EEF0F6', core: '#07080D', glow: 'rgba(238,240,246,.08)'}, light: {accent: '#0D0F1A', onaccent: '#FFFFFF', accenttext: '#0D0F1A', sun: '#0D0F1A', core: '#FFFFFF', glow: 'rgba(13,15,26,.07)'}},
